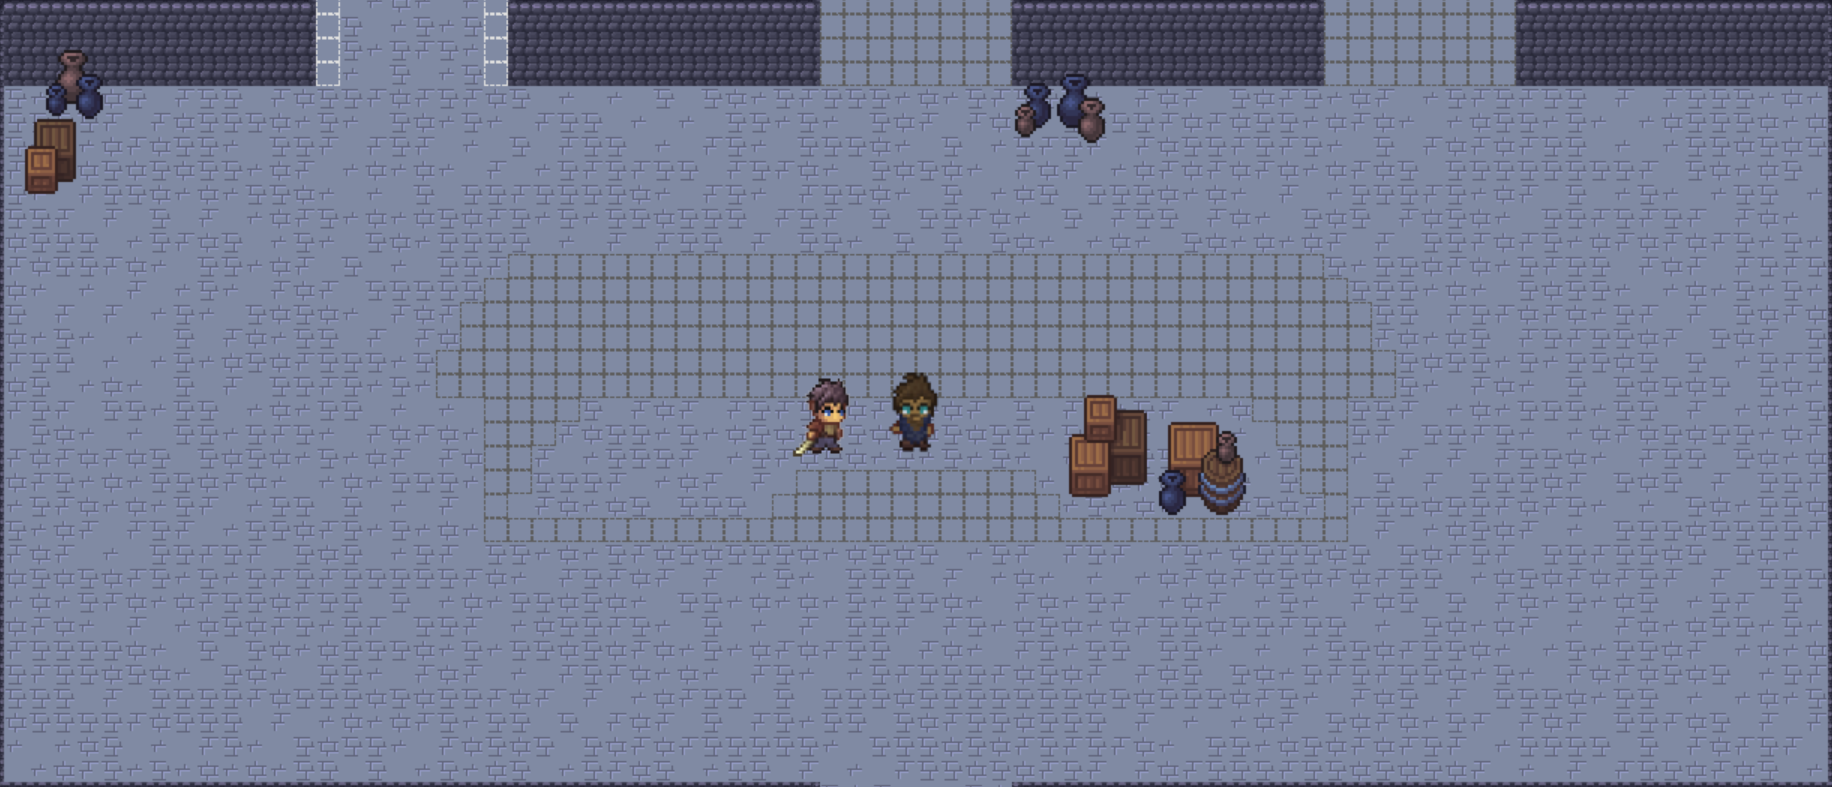
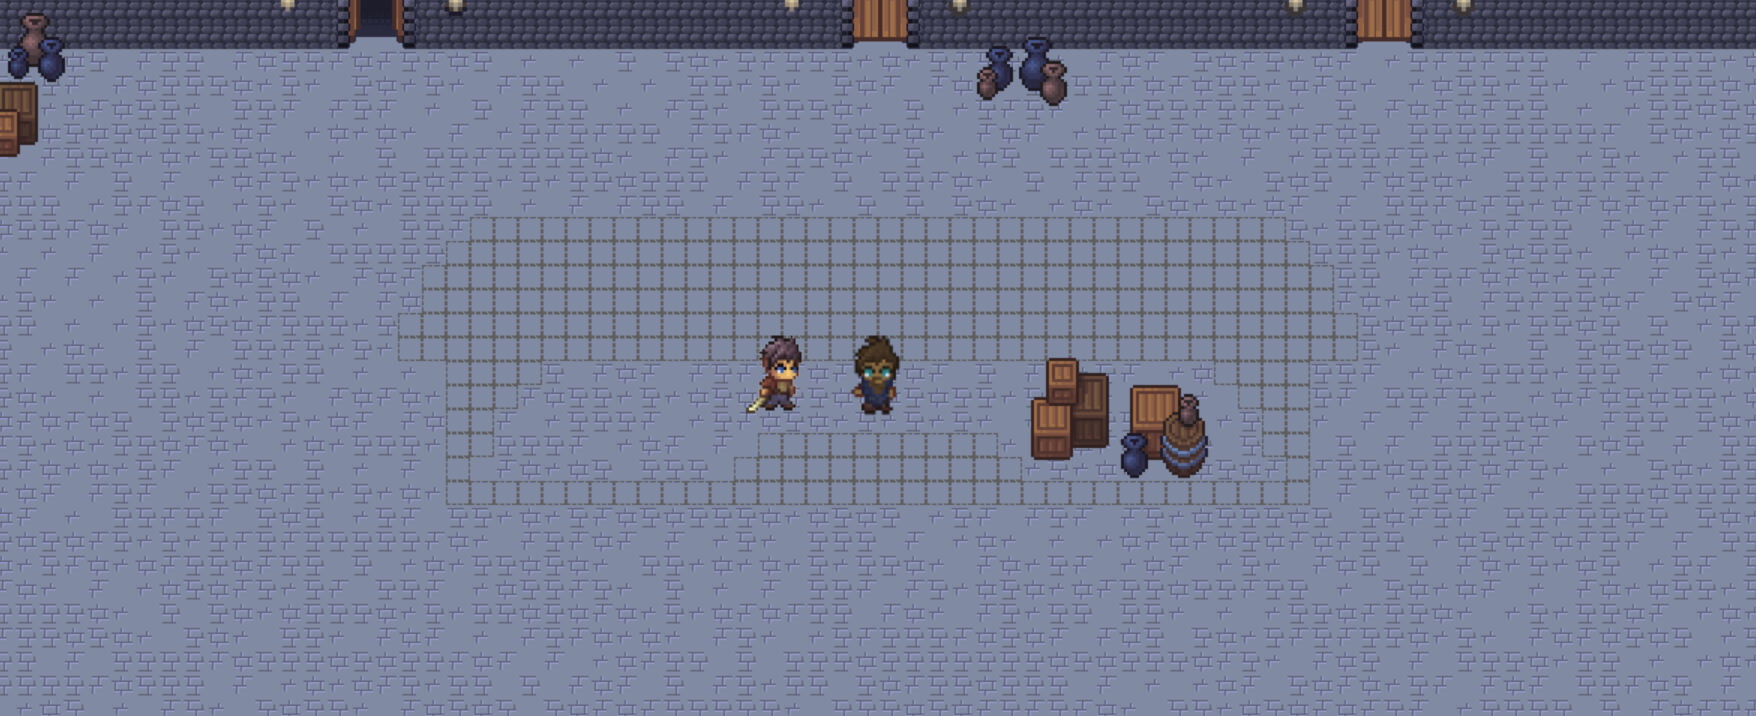
code propre + image1 mise à jour

Changed region(s): [[0.0, 0.0, 1.0, 1.0]]

diff --git a/style.css b/style.css
@@ -2,15 +2,6 @@ html {
     scroll-behavior: smooth;
 }
 
-.download-btn:hover,
-button:hover {
-    background: #00e05d;
-
-    transform: scale(1.05);
-
-    transition: 0.2s;
-}
-
 body {
     margin: 0;
     font-family: Arial, sans-serif;
@@ -23,11 +14,22 @@ body {
     background-attachment: fixed;
 }
 
+#presentation p {
+    line-height: 1.5;
+
+    max-width: 1100px;
+
+    margin: auto;
+
+    font-size: 18px;
+
+    text-align: justify;
+    padding: 50px;
+}
+
 header {
     background: rgba(31, 31, 31, 0.98);
-
     height: 120px;
-
     padding: 0 15px;
 
     display: flex;
@@ -38,24 +40,11 @@ header {
 header h1 {
     display: flex;
     align-items: center;
-
-    margin-left: 50px;
-
-    position: relative;
-}
-
-header h1 {
-    display: flex;
-    align-items: center;
-
     margin-left: 50px;
 
     font-family: 'Pixelify Sans', sans-serif;
-
     font-size: 42px;
-
     letter-spacing: 2px;
-
     color: white;
 
     text-shadow: 0 0 10px rgba(0, 200, 83, 0.35);
@@ -63,15 +52,10 @@ header h1 {
 
 header h1 img {
     height: 110px;
-
     width: auto;
-
     margin-right: 10px;
 
-    filter: drop-shadow(0 0 10px rgba(0,0,0,0.5));
-}
-
-header h1 img {
+    filter: drop-shadow(0 0 10px rgba(0, 0, 0, 0.5));
     transition: 0.3s;
 }
 
@@ -81,33 +65,23 @@ header h1 img:hover {
 
 nav a {
     color: white;
-
     margin-left: 25px;
-
     text-decoration: none;
 
     font-size: 20px;
-
-    font-family: 'Orbitron', sans-serif;
-
+    font-family: 'Pixelify Sans', sans-serif;
+    font-weight: bold;
     letter-spacing: 1px;
 
     padding: 8px 12px;
-
     border-radius: 6px;
 
     transition: 0.2s;
 }
 
-nav a {
-    transition: 0.2s;
-}
-
 nav a:hover {
     color: #00c853;
-
     background: rgba(255, 255, 255, 0.05);
-
     transform: scale(1.05);
 }
 
@@ -124,6 +98,12 @@ nav a:hover {
     border-radius: 5px;
 }
 
+.download-btn:hover,
+button:hover {
+    background: #00e05d;
+    transform: scale(1.05);
+    transition: 0.2s;
+}
 
 section {
     padding: 40px;
@@ -141,13 +121,10 @@ section {
 .gallery {
     display: flex;
     gap: 20px;
-
     overflow-x: auto;
     scroll-behavior: smooth;
-
     width: 100%;
     padding: 10px;
-
     scrollbar-width: none;
 }
 
@@ -158,15 +135,9 @@ section {
 .gallery img {
     min-width: 45%;
     height: 300px;
-
     object-fit: cover;
-
     border-radius: 10px;
-
     flex-shrink: 0;
-}
-
-.gallery img {
     transition: transform 0.3s;
 }
 
@@ -177,17 +148,13 @@ section {
 .scroll-btn {
     background: rgba(0, 0, 0, 0.6);
     color: white;
-
     border: none;
 
     font-size: 24px;
-
     padding: 15px;
 
     cursor: pointer;
-
     border-radius: 50%;
-
     z-index: 10;
 }
 

diff --git a/index.html b/index.html
@@ -24,7 +24,9 @@
 <section class="hero">
     <h2>Découvrez notre jeu</h2>
     <p>Un jeu incroyable vous attend</p>
-    <a class="download-btn" onclick="downloadLatest()">Télécharger le jeu</a>
+    <a href="#" class="download-btn" onclick="downloadLatest()">
+        Télécharger le jeu
+    </a>
 
     <p class="compatibility">
         ✔ Compatible Windows 10 et 11 • 64 bits